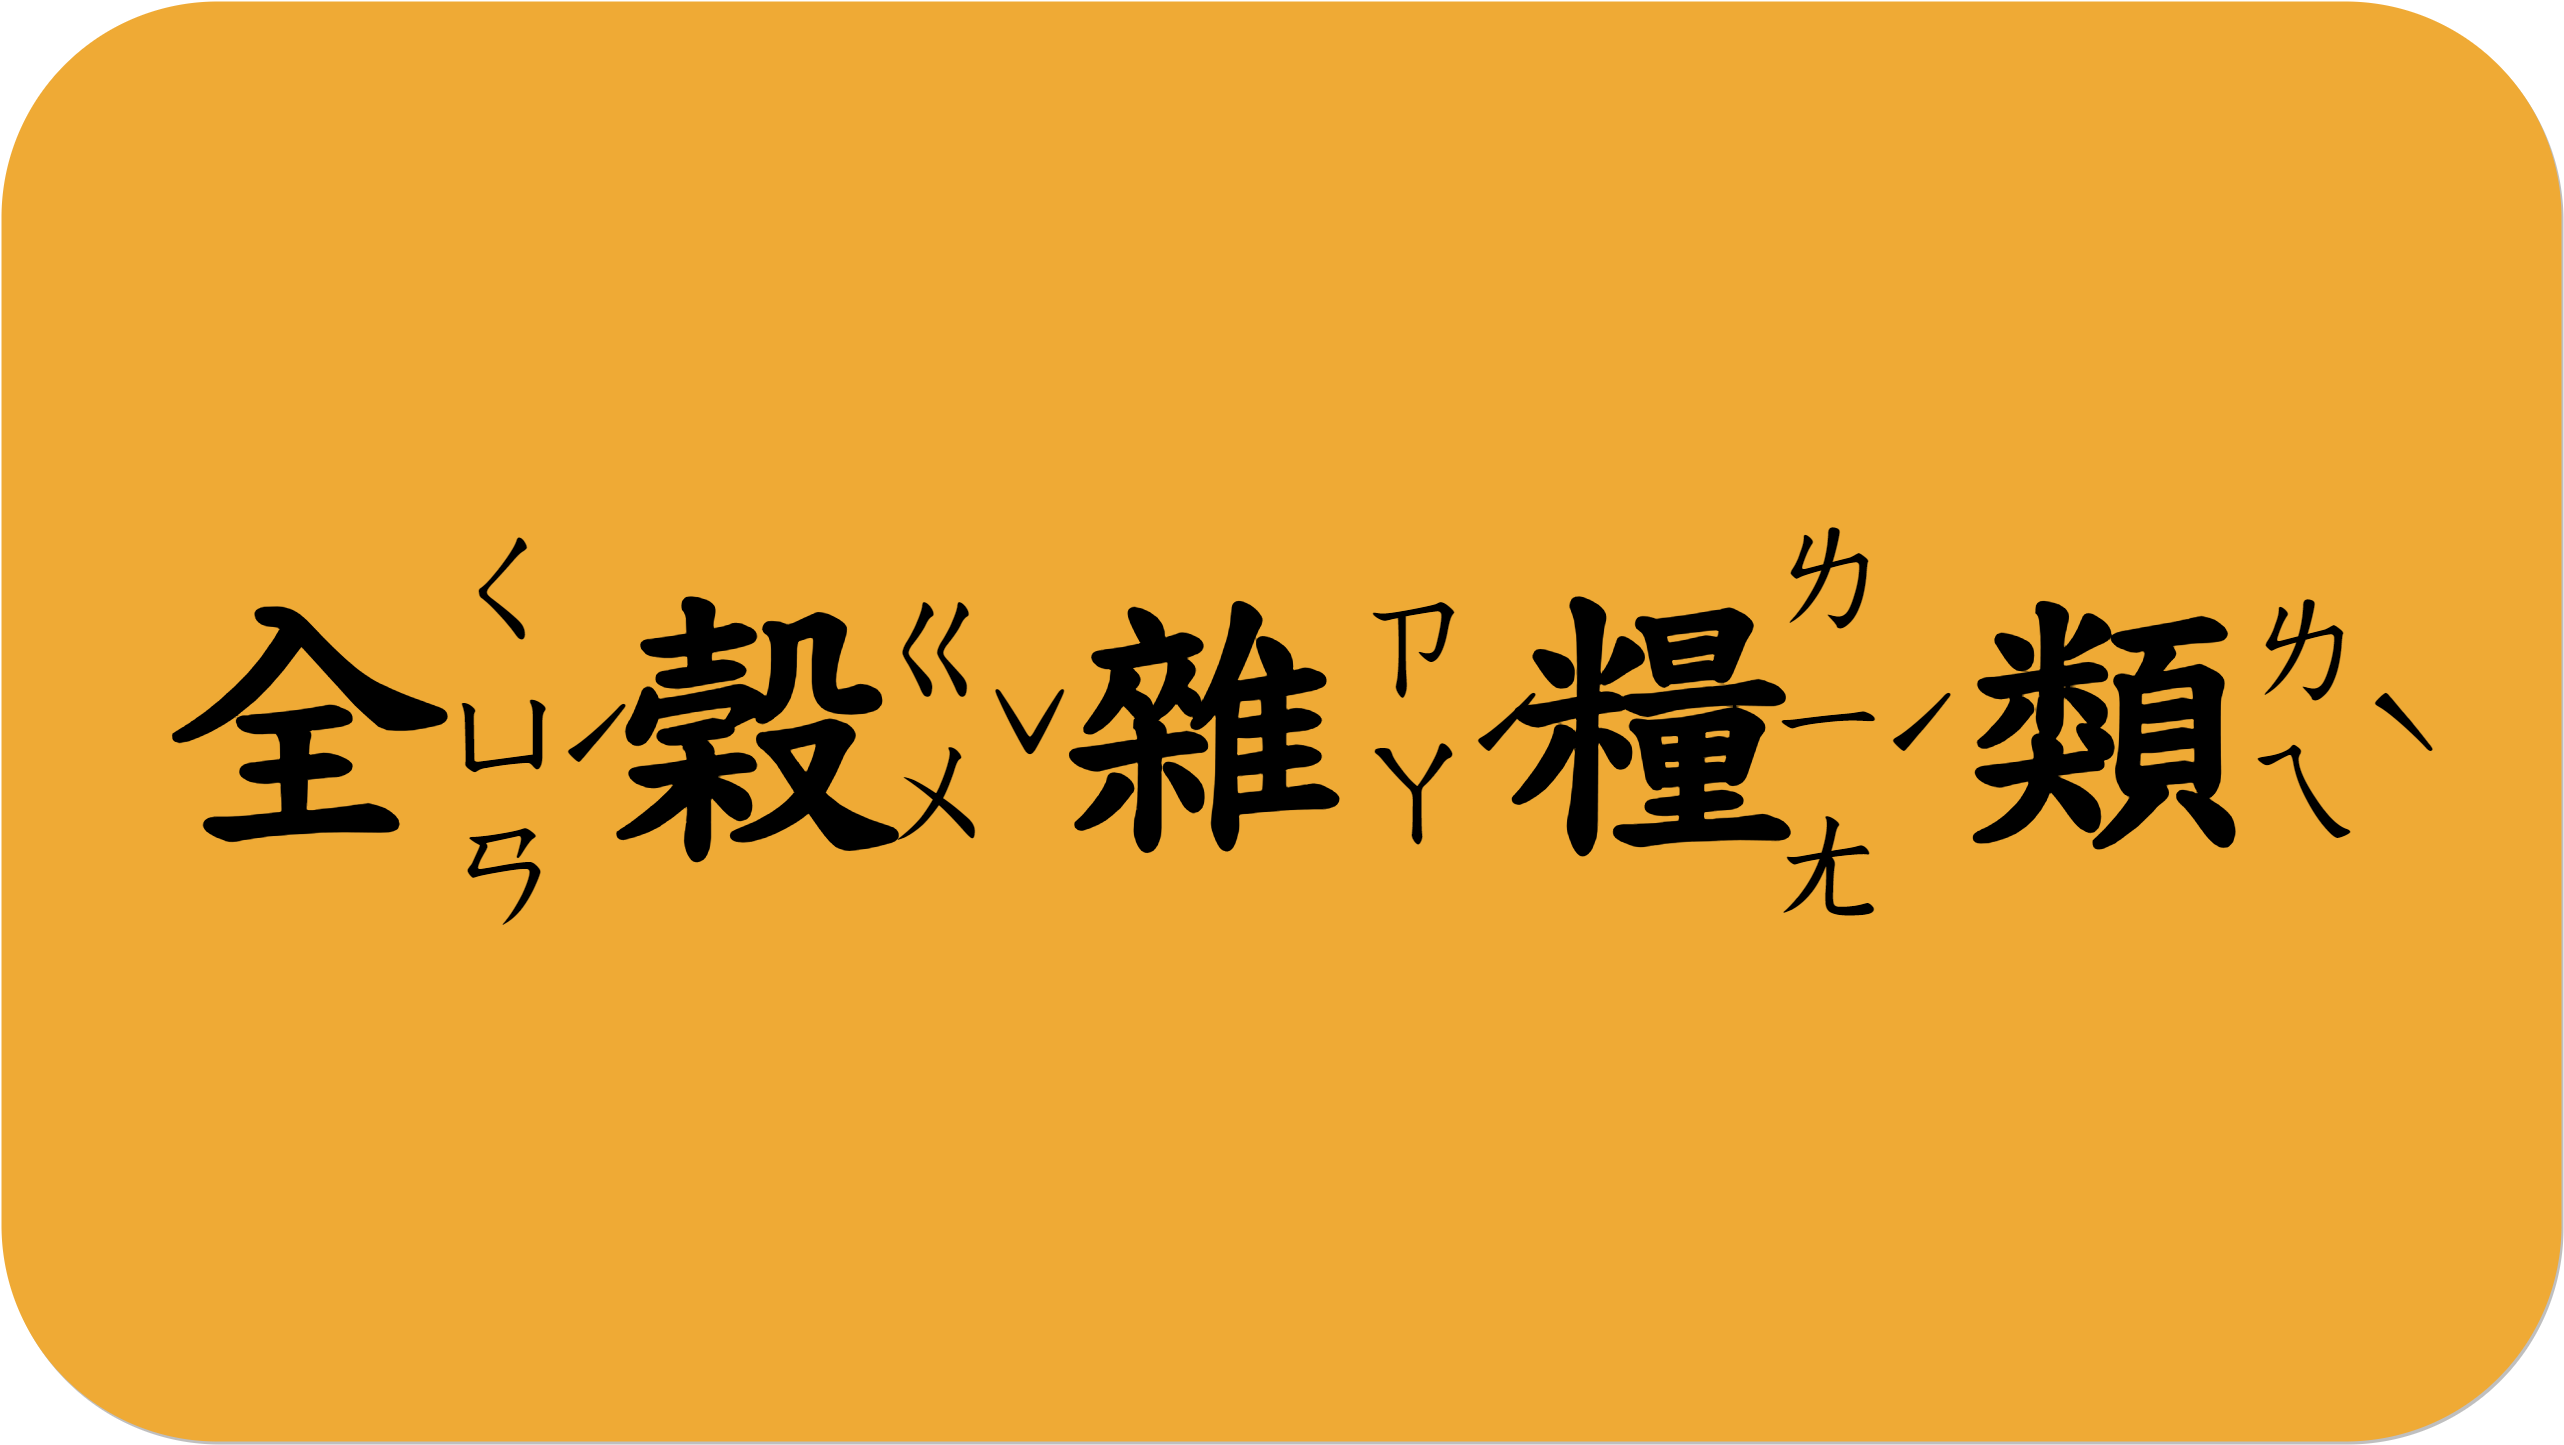
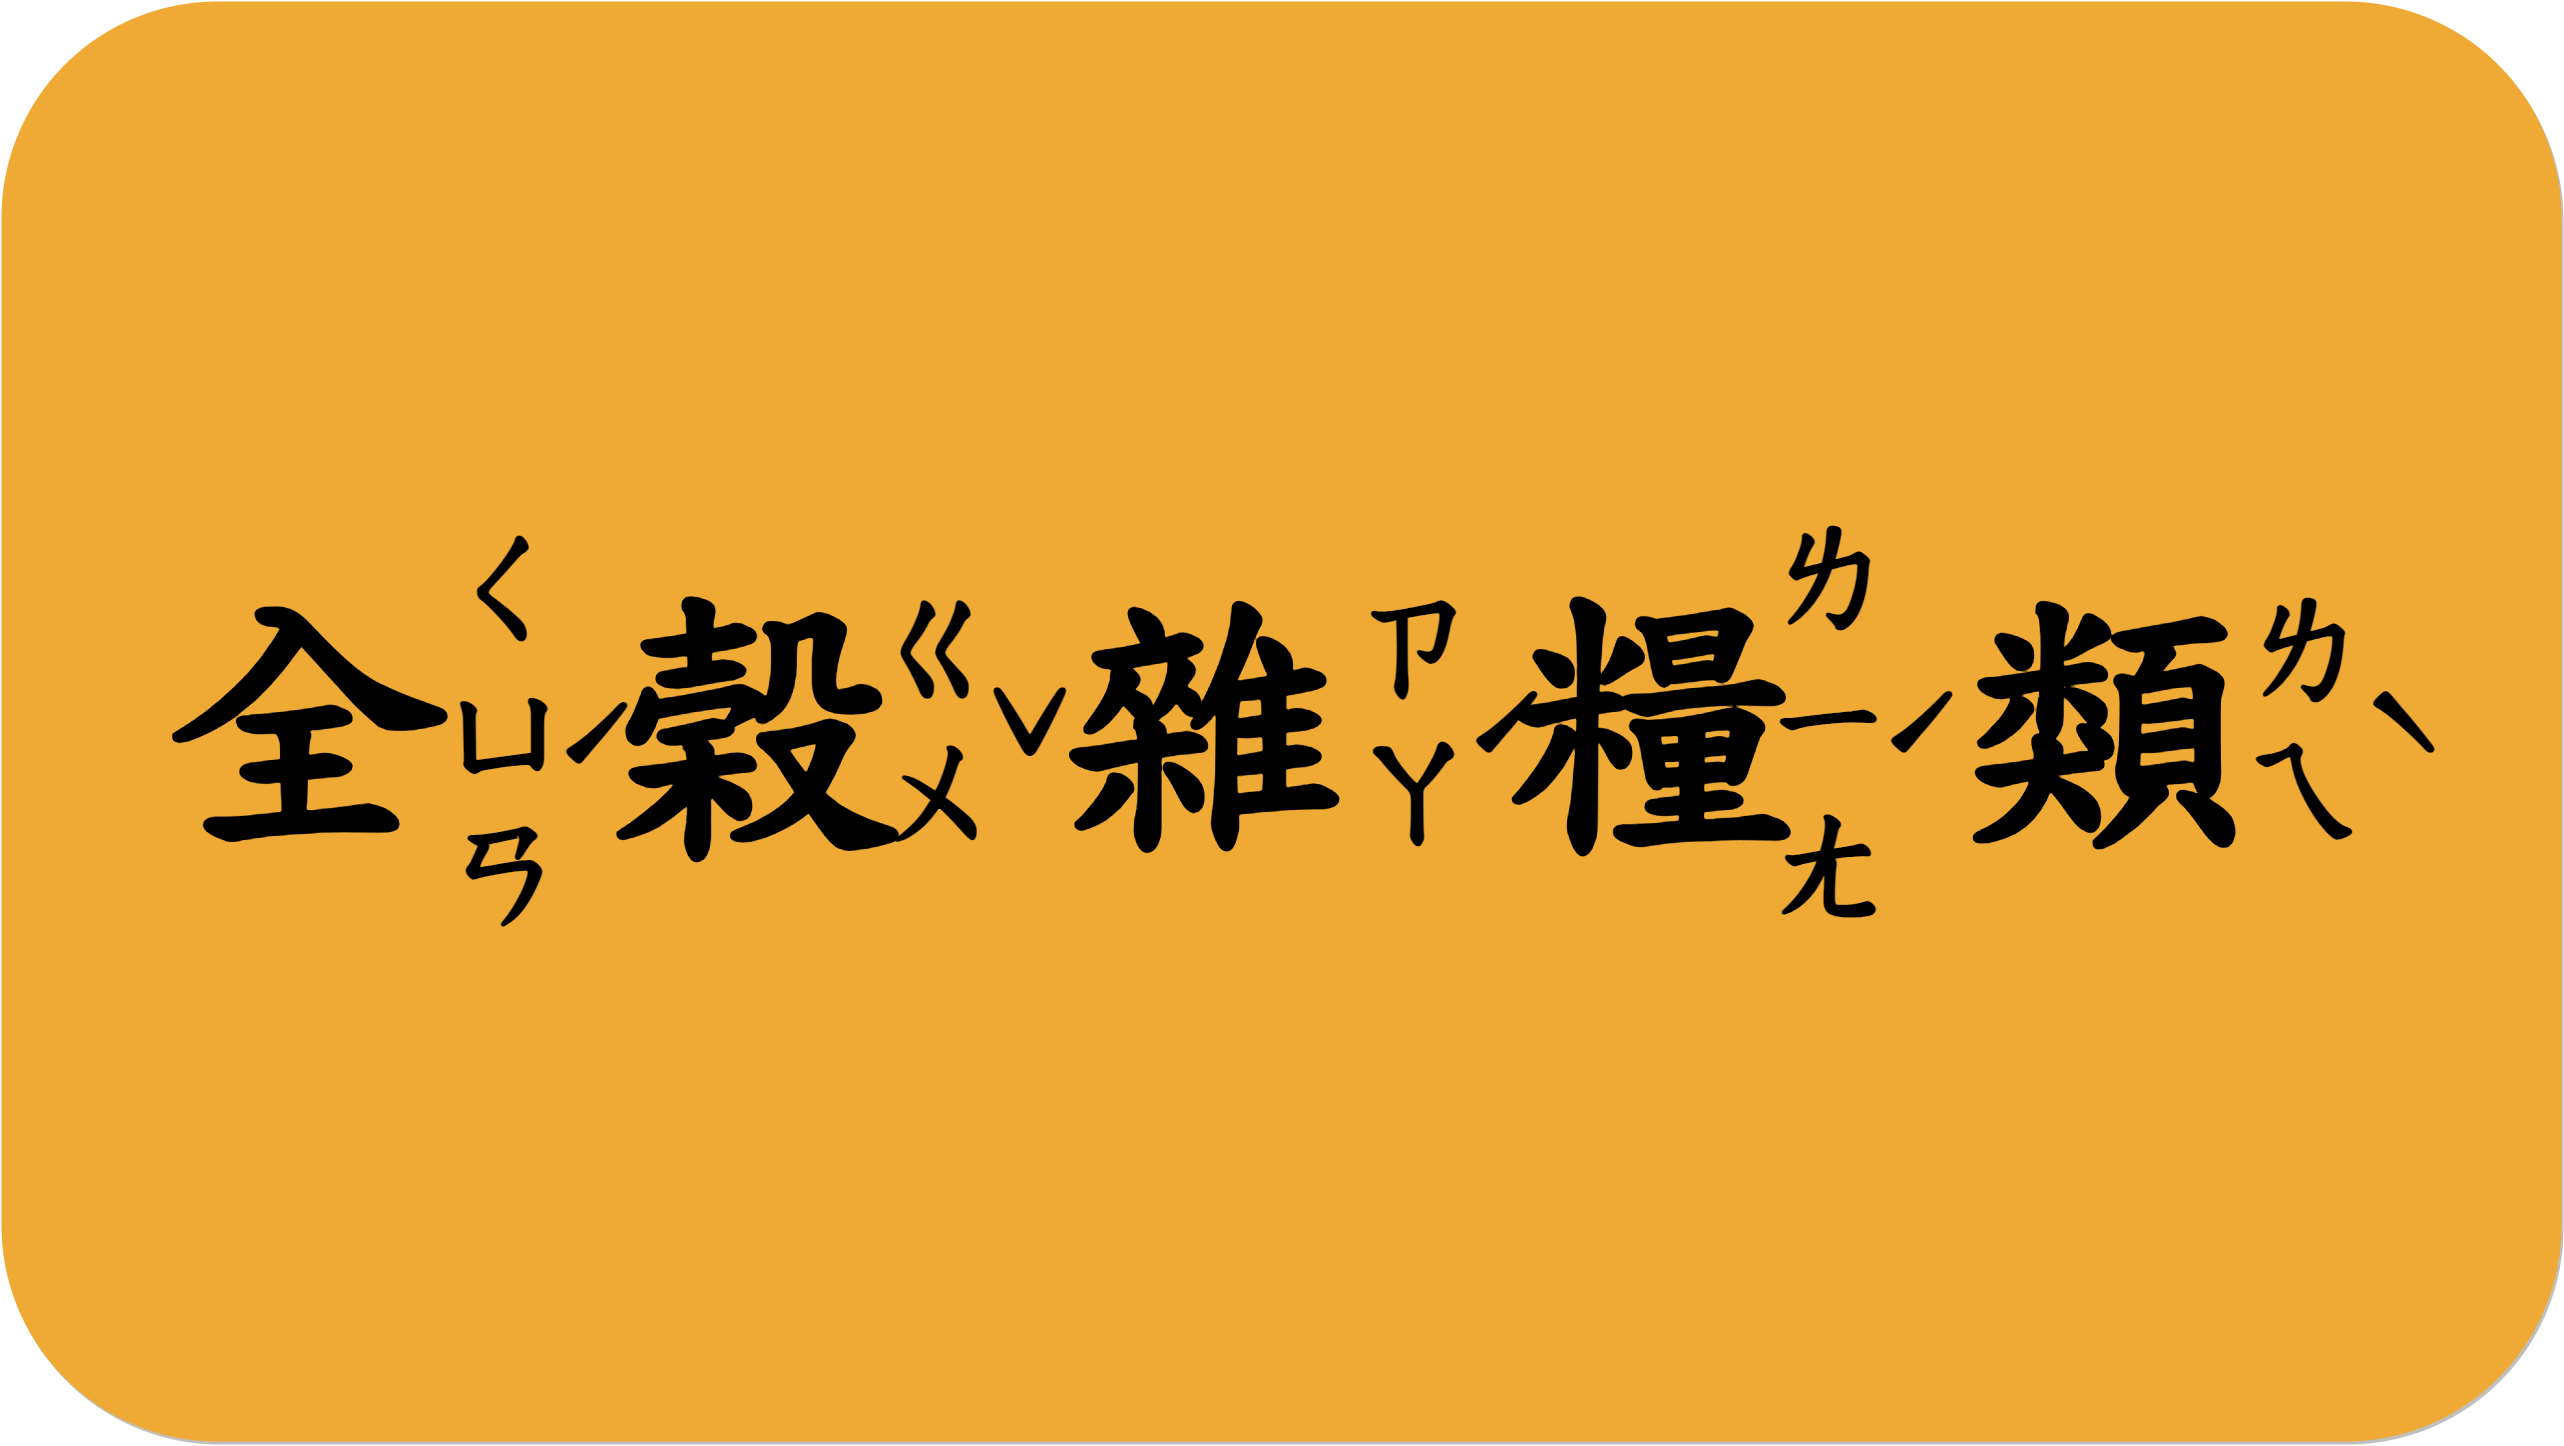
game2文字注音

diff --git a/E-Plate/public/javascripts/game2.js b/E-Plate/public/javascripts/game2.js
@@ -2,7 +2,15 @@ let userAnswer = { nut: [], milk: [], meat: [], vegetable: [], fruit: [], grain:
 
 const gameStart = {
   key: 'gameStart',
-  preload: function () { GeneralPreload(this); },
+  preload: function () {
+    GeneralPreload(this);
+    this.load.image('nut', '../public/images/ui/types/nutText.png');
+    this.load.image('milk', '../public/images/ui/types/milkText.png');
+    this.load.image('meat', '../public/images/ui/types/meatText.png');
+    this.load.image('vegetable', '../public/images/ui/types/vegetableText.png');
+    this.load.image('fruit', '../public/images/ui/types/fruitText.png');
+    this.load.image('grain', '../public/images/ui/types/grainText.png');
+  },
   create: function () {
 
     // /************************************************ 物件設置部分 ************************************************/
@@ -10,9 +18,9 @@ const gameStart = {
     const towerHeight = 0.98 * h;  // 金字塔高
     const foodlist = getRandomFoods(numOfFood);
     const foodArr = [];
-    
+
     // 食物分類金字塔物件
-    const foodTower = this.add.triangle(cx/1.4, cy, 0, towerHeight, 0.5 * towerWidth, 0, towerWidth, towerHeight, 0xffffff).setInteractive();
+    const foodTower = this.add.triangle(cx / 1.4, cy, 0, towerHeight, 0.5 * towerWidth, 0, towerWidth, towerHeight, 0xffffff).setInteractive();
     // 劃分區域
     const regions = [
       {
@@ -85,7 +93,8 @@ const gameStart = {
       // 繪製邊界並填充顏色
       this.add.graphics().lineStyle(0.003 * w, 0x0).strokePoints(region.bounds.points, true).fillStyle(region.color).fillPath();
       // 添加文字
-      this.add.text(region.textSeat[0], region.textSeat[1] - classFontSize / 2, region.text, { font: `${classFontSize}px 標楷體`, fill: '#000000' }).setOrigin(0.5);
+      // this.add.text(region.textSeat[0], region.textSeat[1] - classFontSize / 2, region.text, { font: `${classFontSize}px 標楷體`, fill: '#000000' }).setOrigin(0.5);
+      this.add.image(region.textSeat[0], region.textSeat[1] - classFontSize /2, region.name).setDisplaySize(0.18*w, classFontSize)
       // 定義點擊互動事件，作為驗證
       // foodTower.on('pointerdown', (pointer) => { if (Phaser.Geom.Polygon.Contains(region.bounds, pointer.x, pointer.y)) console.log(`${region.text}`) })
     });
